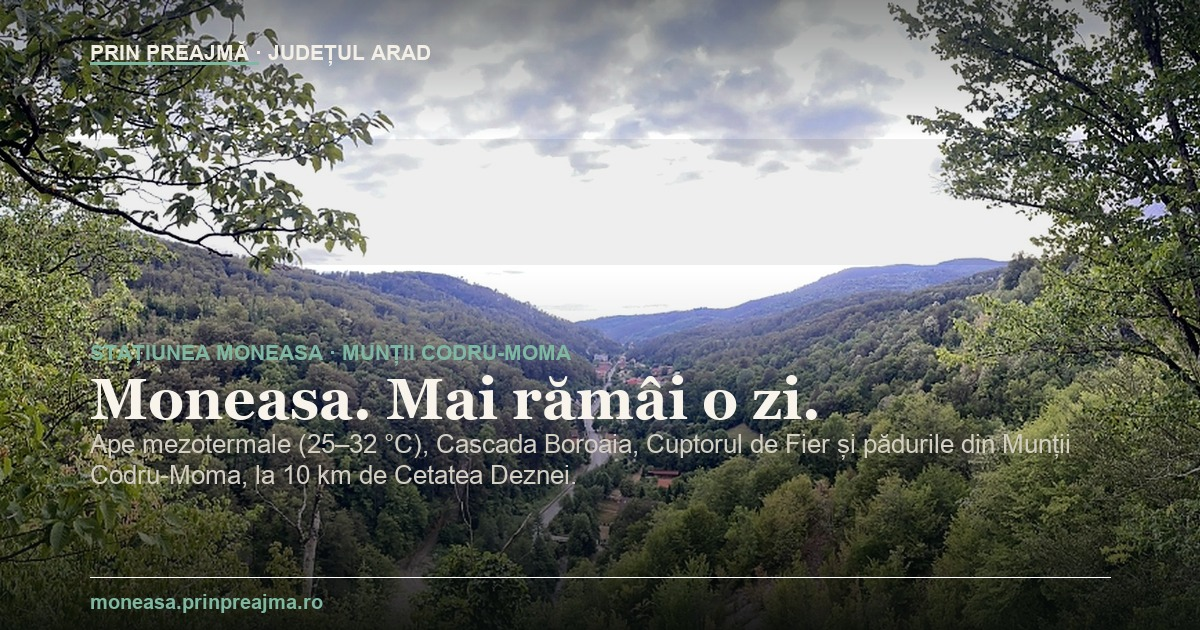
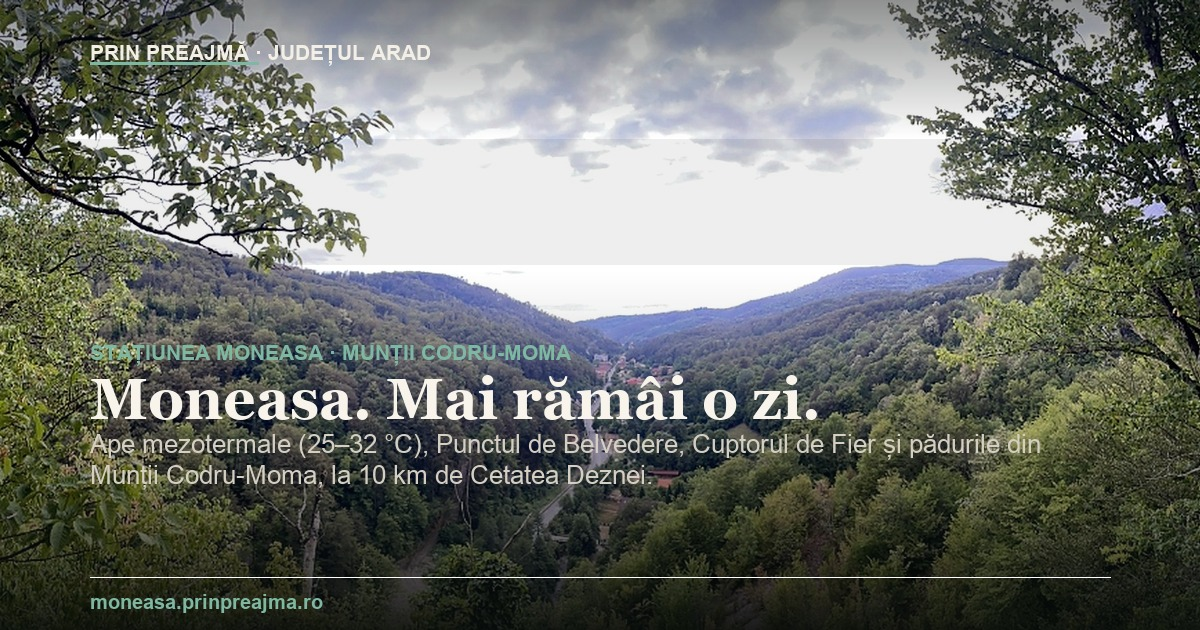
Sync moneasa.prinpreajma.ro

Changed region(s): [[0.0617, 0.6937, 0.8942, 0.7841]]

diff --git a/index.html b/index.html
@@ -3,8 +3,8 @@
 <head>
   <meta charset="utf-8">
   <meta name="viewport" content="width=device-width, initial-scale=1">
-  <title>Stațiunea Moneasa — Lacul, Cascada Boroaia, Cuptorul de Fier, Grota Ursului și itinerare de weekend | Prin Preajmă</title>
-  <meta name="description" content="Descoperă Stațiunea Moneasa („Perla Apusenilor”, jud. Arad): plimbări lângă lac și apele mezotermale, Cascada Boroaia, Cuptorul de Topit Fier, Cariera de Marmură, Grota Ursului și excursii la Cetatea Deznei și Via Ferrata.">
+  <title>Stațiunea Moneasa — Lacul, Punctul de Belvedere, Cuptorul de Fier, Grota Ursului și itinerare de weekend | Prin Preajmă</title>
+  <meta name="description" content="Descoperă Stațiunea Moneasa („Perla Apusenilor”, jud. Arad): plimbări lângă lac și apele mezotermale, Punctul de Belvedere, Cuptorul de Topit Fier, Cariera de Marmură, Grota Ursului și excursii la Cetatea Deznei și Via Ferrata.">
   <link rel="canonical" href="https://moneasa.prinpreajma.ro/">
 
   <!-- Open Graph / Distribuire Socială -->
@@ -20,7 +20,7 @@
   <meta property="og:image:alt" content="Stațiunea Moneasa — Mai rămâi o zi la poalele Munților Codru-Moma">
   <meta name="twitter:card" content="summary_large_image">
   <meta name="twitter:title" content="Moneasa. Mai rămâi o zi.">
-  <meta name="twitter:description" content="Ghidul complet pentru o zi sau un weekend în Moneasa și Dezna: lacul, Cascada Boroaia, Cuptorul de Fier, Grota Ursului și Cetatea Deznei.">
+  <meta name="twitter:description" content="Ghidul complet pentru o zi sau un weekend în Moneasa și Dezna: lacul, Punctul de Belvedere, Cuptorul de Fier, Grota Ursului și Cetatea Deznei.">
   <meta name="twitter:image" content="https://moneasa.prinpreajma.ro/assets/social-cards/moneasa-excursie-og-16x9.jpg">
 
   <link rel="preload" as="image" href="assets/media/documentar/moneasa-doc-01-lacul-si-parcul-1200w.webp" imagesrcset="assets/media/documentar/moneasa-doc-01-lacul-si-parcul-480w.webp 480w, assets/media/documentar/moneasa-doc-01-lacul-si-parcul-800w.webp 800w, assets/media/documentar/moneasa-doc-01-lacul-si-parcul-1200w.webp 1200w, assets/media/documentar/moneasa-doc-01-lacul-si-parcul-1600w.webp 1600w" imagesizes="100vw">
@@ -35,7 +35,7 @@
         "@type": ["TouristDestination", "Place"],
         "@id": "https://moneasa.prinpreajma.ro/#destinatie",
         "name": "Stațiunea Moneasa și împrejurimile (Munții Codru-Moma)",
-        "description": "Stațiune la poalele Munților Codru-Moma (altitudine ~280–300 m, județul Arad), cunoscută pentru apele mezotermale (25–32 °C), lacul și parcul central, Cascada Boroaia, Cuptorul de Topit Fier, Cariera de Marmură, Grota Ursului și apropierea de Cetatea Deznei.",
+        "description": "Stațiune la poalele Munților Codru-Moma (altitudine ~280–300 m, județul Arad), cunoscută pentru apele mezotermale (25–32 °C), lacul și parcul central, Punctul de Belvedere, Cuptorul de Topit Fier, Cariera de Marmură, Grota Ursului și apropierea de Cetatea Deznei.",
         "url": "https://moneasa.prinpreajma.ro/",
         "address": {
           "@type": "PostalAddress",
@@ -163,7 +163,7 @@
           </div>
           <div class="hero__meta-row">
             <span class="hero__meta-label">Obiective în mers pe jos</span>
-            <span class="hero__meta-val">Lacul, Cuptorul de Fier, Cariera de Marmură, Grota Ursului, Boroaia</span>
+            <span class="hero__meta-val">Lacul, Punctul de Belvedere, Cuptorul de Fier, Cariera de Marmură, Grota Ursului</span>
           </div>
           <div class="hero__meta-row">
             <span class="hero__meta-label">Aventura din vecinătate</span>
@@ -184,7 +184,7 @@
         <article class="qa-card">
           <div class="qa-card__index" aria-hidden="true"><span>02</span><span>ATRACȚII</span></div>
           <h2 class="qa-card__question">Ce pot trăi concret?</h2>
-          <p class="qa-card__answer">Plimbare în jurul lacului și parcului, drumeție ușoară la Cascada Boroaia și Cariera de Marmură Roșie și Neagră, oprire la Cuptorul de Topit Fier (sec. XIX) și tur ghidat în Grota Ursului.</p>
+          <p class="qa-card__answer">Plimbare în jurul lacului și parcului, urcare la Punctul de Belvedere și Cariera de Marmură Roșie și Neagră, oprire la Cuptorul de Topit Fier (sec. XIX) și tur ghidat în Grota Ursului.</p>
         </article>
         <article class="qa-card">
           <div class="qa-card__index" aria-hidden="true"><span>03</span><span>PENTRU CINE</span></div>
@@ -194,7 +194,7 @@
         <article class="qa-card">
           <div class="qa-card__index" aria-hidden="true"><span>04</span><span>ACCES</span></div>
           <h2 class="qa-card__question">Cum îmi organizez vizita?</h2>
-          <p class="qa-card__answer">Drumul județean DJ 792B urcă asfaltat direct din Dezna în Moneasa. Obiectivele în aer liber (lac, parc, cuptor de fier, carieră, cascadă) au acces liber pe timp de zi.</p>
+          <p class="qa-card__answer">Drumul județean DJ 792B urcă asfaltat direct din Dezna în Moneasa. Obiectivele în aer liber (lac, parc, cuptor de fier, carieră, belvedere) au acces liber pe timp de zi.</p>
         </article>
         <article class="qa-card">
           <div class="qa-card__index" aria-hidden="true"><span>05</span><span>ÎN PREAJMĂ</span></div>
@@ -246,7 +246,7 @@
           </div>
 
           <div class="topo-blueprint__svg-wrap">
-            <svg class="topo-blueprint__svg" viewBox="0 0 960 290" role="img" aria-label="Harta schematică a coridorului Dezna – Moneasa: Dealul Ozoiu (Cetatea Deznei și Via Ferrata), legătura pe DJ 792B către Parcul și Lacul din Moneasa, Cuptorul de Topit Fier, Grota Ursului, Cariera de Marmură și Cascada Boroaia.">
+            <svg class="topo-blueprint__svg" viewBox="0 0 960 290" role="img" aria-label="Harta schematică a coridorului Dezna – Moneasa: Dealul Ozoiu (Cetatea Deznei și Via Ferrata), legătura pe DJ 792B către Parcul și Lacul din Moneasa, Cuptorul de Topit Fier, Grota Ursului, Cariera de Marmură și Punctul de Belvedere.">
               <defs>
                 <linearGradient id="moneasaFill" x1="0" y1="0" x2="0" y2="1">
                   <stop offset="0%" stop-color="#84bda9" stop-opacity="0.24"/>
@@ -277,10 +277,10 @@
                 <text x="565" y="149" font-size="10" fill="#c7dcd3" text-anchor="middle">Sec. XIX · Peșteră cu ghidaj</text>
 
                 <text x="735" y="76" font-size="11.5" font-weight="600" text-anchor="middle">4. Cariera de Marmură</text>
-                <text x="735" y="90" font-size="10" fill="#c7dcd3" text-anchor="middle">Marmură roșie/neagră &amp; Belvedere</text>
+                <text x="735" y="90" font-size="10" fill="#c7dcd3" text-anchor="middle">Marmură roșie și calcar negru</text>
 
-                <text x="885" y="34" font-size="11.5" font-weight="700" fill="#aedbce" text-anchor="end">5. Cascada Boroaia</text>
-                <text x="885" y="48" font-size="10" fill="#c7dcd3" text-anchor="end">Codru-Moma (~35 min)</text>
+                <text x="885" y="34" font-size="11.5" font-weight="700" fill="#aedbce" text-anchor="end">5. Punctul de Belvedere</text>
+                <text x="885" y="48" font-size="10" fill="#c7dcd3" text-anchor="end">Panoramă peste Valea Moneasa</text>
               </g>
             </svg>
           </div>
@@ -313,15 +313,15 @@
           </article>
 
           <article class="truth-card" style="background: #ffffff; border-color: rgba(20,38,33,0.15);">
-            <span class="truth-card__tag" style="color: #1f5c4b;">Drumeție ușoară · ~30–40 min</span>
-            <h3 class="truth-card__title">3. Cascada Boroaia</h3>
-            <p>O cădere de apă pitorească peste trepte de stâncă, ascunsă în pădurea Munților Codru-Moma, în apropierea stațiunii. Este cel mai spectaculoasă primăvara sau după perioade cu precipitații. Necesită încălțăminte comodă cu talpă aderentă.</p>
+            <span class="truth-card__tag" style="color: #1f5c4b;">Potecă în urcare · Panoramă deschisă</span>
+            <h3 class="truth-card__title">3. Punctul de Belvedere asupra Văii Moneasa</h3>
+            <p>Unul dintre cele mai spectaculoase locuri din stațiune: poteca urcă deasupra văii până la foișorul din lemn și panourile documentare, de unde se deschide o panoramă amplă peste întreaga depresiune Moneasa și culmile împădurite ale Munților Codru-Moma. Merită văzut atât în lumina zilei, cât și la lăsarea serii.</p>
           </article>
 
           <article class="truth-card" style="background: #ffffff; border-color: rgba(20,38,33,0.15);">
-            <span class="truth-card__tag" style="color: #1f5c4b;">Potecă în urcare · Belvedere</span>
-            <h3 class="truth-card__title">4. Cariera de Marmură și Punctul de Belvedere</h3>
-            <p>Un traseu marcat urcă din stațiune (trecând pe lângă zona Cuptorului de Fier) spre impresionanții pereți tăiați în <strong>marmură roșie și calcar negru de Moneasa</strong>, precum și spre <strong>Punctul de Belvedere</strong> care oferă o panoramă deschisă asupra depresiunii. Recomandat exclusiv pe timp de zi și cu atenție pe versant.</p>
+            <span class="truth-card__tag" style="color: #1f5c4b;">Patrimoniu geologic · Traseu marcat</span>
+            <h3 class="truth-card__title">4. Cariera de Marmură Roșie și Neagră</h3>
+            <p>Un traseu marcat urcă din stațiune (trecând pe lângă zona Cuptorului de Fier) spre impresionanții pereți tăiați în <strong>marmură roșie și calcar negru de Moneasa</strong>, roci ornamentale extrase încă din secolul al XIX-lea. Recomandat pe timp de zi, cu încălțăminte cu talpă aderentă.</p>
           </article>
 
           <article class="truth-card" style="background: #ffffff; border-color: rgba(20,38,33,0.15);">
@@ -346,7 +346,7 @@
           <span class="section__kicker">Albume tematice documentare &amp; Filmul stațiunii</span>
           <h2 class="section__title" id="moneasa-galerie-title">Imagini și repere din Moneasa și Munții Codru-Moma</h2>
           <p class="section__lead">
-            Filtrează albumul după tematică (Apă &amp; Parc, Pădure &amp; Cascadă, Patrimoniu &amp; Marmură) și deschide orice imagine pentru vizualizare mărită.
+            Filtrează albumul după tematică (Belvedere &amp; Valea Moneasa, Apă &amp; Nuferi Termali, Patrimoniu &amp; Marmură) și deschide orice imagine pentru vizualizare mărită.
           </p>
         </div>
 
@@ -397,7 +397,7 @@
             <button
               type="button"
               class="gallery-item__trigger"
-              data-full-src="assets/media/documentar/moneasa-doc-02-cascada-boroaia-1600w.webp"
+              data-full-src="assets/media/documentar/moneasa-doc-02-nufar-termal-1600w.webp"
               data-title="Nufărul termal — detaliu pe luciul apei din Stațiunea Moneasa"
               data-desc="Fotografie reală de detaliu cu floarea albă de nufăr înconjurată de frunze verzi pe apele din Moneasa."
               data-alt="Fotografie reală cu un nufăr alb înflorit pe luciul apei în Stațiunea Moneasa."
@@ -405,8 +405,8 @@
               <div class="gallery-item__media" style="aspect-ratio: 16 / 9;">
                 <span class="gallery-item__badge">Fotografie reală · Nuferii din Moneasa</span>
                 <img
-                  src="assets/media/documentar/moneasa-doc-02-cascada-boroaia-800w.webp"
-                  srcset="assets/media/documentar/moneasa-doc-02-cascada-boroaia-480w.webp 480w, assets/media/documentar/moneasa-doc-02-cascada-boroaia-800w.webp 800w, assets/media/documentar/moneasa-doc-02-cascada-boroaia-1200w.webp 1200w, assets/media/documentar/moneasa-doc-02-cascada-boroaia-1600w.webp 1600w"
+                  src="assets/media/documentar/moneasa-doc-02-nufar-termal-800w.webp"
+                  srcset="assets/media/documentar/moneasa-doc-02-nufar-termal-480w.webp 480w, assets/media/documentar/moneasa-doc-02-nufar-termal-800w.webp 800w, assets/media/documentar/moneasa-doc-02-nufar-termal-1200w.webp 1200w, assets/media/documentar/moneasa-doc-02-nufar-termal-1600w.webp 1600w"
                   sizes="(max-width: 768px) 100vw, 40vw"
                   width="1600"
                   height="900"
@@ -560,7 +560,7 @@
               <ol class="itinerary-card__steps">
                 <li><strong>Partea I (Dezna):</strong> Urcare pe poteca umbrită prin pădurea de fag (marcaj triunghi roșu) până la ruinele <a href="https://cetateadeznei.prinpreajma.ro/">Cetății Deznei</a> și priveliștea de pe Dealul Ozoiu.</li>
                 <li><strong>Partea a II-a (Moneasa — Centru):</strong> Deplasare pe DJ 792B în Moneasa, masă și plimbare în jurul lacului și pe aleile parcului.</li>
-                <li><strong>Partea a III-a (Patrimoniu &amp; Pădure):</strong> Vizitarea Cuptorului de Topit Fier și plimbare până la Cascada Boroaia.</li>
+                <li><strong>Partea a III-a (Patrimoniu &amp; Belvedere):</strong> Vizitarea Cuptorului de Topit Fier și urcare până la Punctul de Belvedere deasupra văii Moneasa.</li>
               </ol>
             </div>
             <a class="btn btn--secondary" href="https://cetateadeznei.prinpreajma.ro/" data-track="trecere_destinatie" data-track-label="Moneasa Itinerar 1 -> Cetatea Deznei">Începe cu Cetatea Deznei →</a>
@@ -584,7 +584,7 @@
               <h3 class="itinerary-card__title">Weekend la poalele Munților Codru-Moma</h3>
               <ol class="itinerary-card__steps">
                 <li><strong>Sâmbătă (Legenda &amp; Stânca la Dezna + Seară în Moneasa):</strong> Cetatea Deznei (pe potecă sau pe via ferrata), urmată de după-amiază și seară liniștită pe malul lacului din Moneasa.</li>
-                <li><strong>Duminică (Natura &amp; Adâncurile din Moneasa):</strong> Dimineața la Grota Ursului (tur ghidat), urcare pe la Cuptorul de Fier și Cariera de Marmură spre Belvedere, apoi plimbare la Cascada Boroaia înainte de drumul spre casă.</li>
+                <li><strong>Duminică (Natura &amp; Adâncurile din Moneasa):</strong> Dimineața la Grota Ursului (tur ghidat), urcare pe la Cuptorul de Fier și Cariera de Marmură spre Punctul de Belvedere și foișorul cu panouri documentare, înainte de drumul spre casă.</li>
               </ol>
             </div>
             <a class="btn btn--secondary" href="#planificare">Vezi accesul rutier și harta →</a>
@@ -647,7 +647,7 @@
           <div class="truth-card" style="background: #ffffff; border-color: rgba(20,38,33,0.15);">
             <span class="truth-card__tag" style="color: #1f5c4b;">Recomandări practice</span>
             <h3 class="truth-card__title">Echipament pentru plimbări și peșteri</h3>
-            <p>Pentru parc și lac este suficientă încălțămintea lejeră de plimbare. Dacă urci spre Cariera de Marmură, Punctul de Belvedere, Cascada Boroaia sau Peștera Liliecilor, ia încălțăminte de drumeție cu talpă aderentă. În interiorul Grotei Ursului temperatura este constantă (~10–12 °C), așa că o bluză cu mânecă lungă este utilă chiar și vara.</p>
+            <p>Pentru parc și lac este suficientă încălțămintea lejeră de plimbare. Dacă urci spre Punctul de Belvedere, Cariera de Marmură sau Peștera Liliecilor, ia încălțăminte de drumeție cu talpă aderentă. În interiorul Grotei Ursului temperatura este constantă (~10–12 °C), așa că o bluză cu mânecă lungă este utilă chiar și vara.</p>
           </div>
 
           <div class="truth-card" style="background: #ffffff; border-color: rgba(20,38,33,0.15);">
@@ -712,21 +712,21 @@
               <button
                 type="button"
                 class="share-preset-btn is-active"
-                data-share-preset="Dacă ajungem la Cetatea Deznei, merită să rămânem și la Moneasa: lacul, pădurea din Codru-Moma, Cuptorul de Fier și Cascada Boroaia. Uite un itinerar gata făcut pentru o zi sau un weekend: https://moneasa.prinpreajma.ro/"
+                data-share-preset="Dacă ajungem la Cetatea Deznei, merită să rămânem și la Moneasa: lacul, pădurea din Codru-Moma, Cuptorul de Fier și Punctul de Belvedere. Uite un itinerar gata făcut pentru o zi sau un weekend: https://moneasa.prinpreajma.ro/"
               >
                 Excursie Dezna + Moneasa
               </button>
               <button
                 type="button"
                 class="share-preset-btn"
-                data-share-preset="Idee de weekend la poalele Munților Codru-Moma: sâmbătă urcăm la Cetatea Deznei, iar duminică explorăm Moneasa (Cascada Boroaia, Cuptorul de Fier și Grota Ursului): https://moneasa.prinpreajma.ro/#itinerare"
+                data-share-preset="Idee de weekend la poalele Munților Codru-Moma: sâmbătă urcăm la Cetatea Deznei, iar duminică explorăm Moneasa (Punctul de Belvedere, Cuptorul de Fier și Grota Ursului): https://moneasa.prinpreajma.ro/#itinerare"
               >
                 Plan de weekend
               </button>
             </div>
 
             <label class="sr-only" for="moneasa-share-text">Mesaj de distribuit</label>
-            <textarea id="moneasa-share-text" class="share-textarea" data-share-textarea>Dacă ajungem la Cetatea Deznei, merită să rămânem și la Moneasa: lacul, pădurea din Codru-Moma, Cuptorul de Fier și Cascada Boroaia. Uite un itinerar gata făcut pentru o zi sau un weekend: https://moneasa.prinpreajma.ro/</textarea>
+            <textarea id="moneasa-share-text" class="share-textarea" data-share-textarea>Dacă ajungem la Cetatea Deznei, merită să rămânem și la Moneasa: lacul, pădurea din Codru-Moma, Cuptorul de Fier și Punctul de Belvedere. Uite un itinerar gata făcut pentru o zi sau un weekend: https://moneasa.prinpreajma.ro/</textarea>
 
             <div class="hero__actions">
               <button type="button" class="btn btn--primary" data-web-share-btn>
